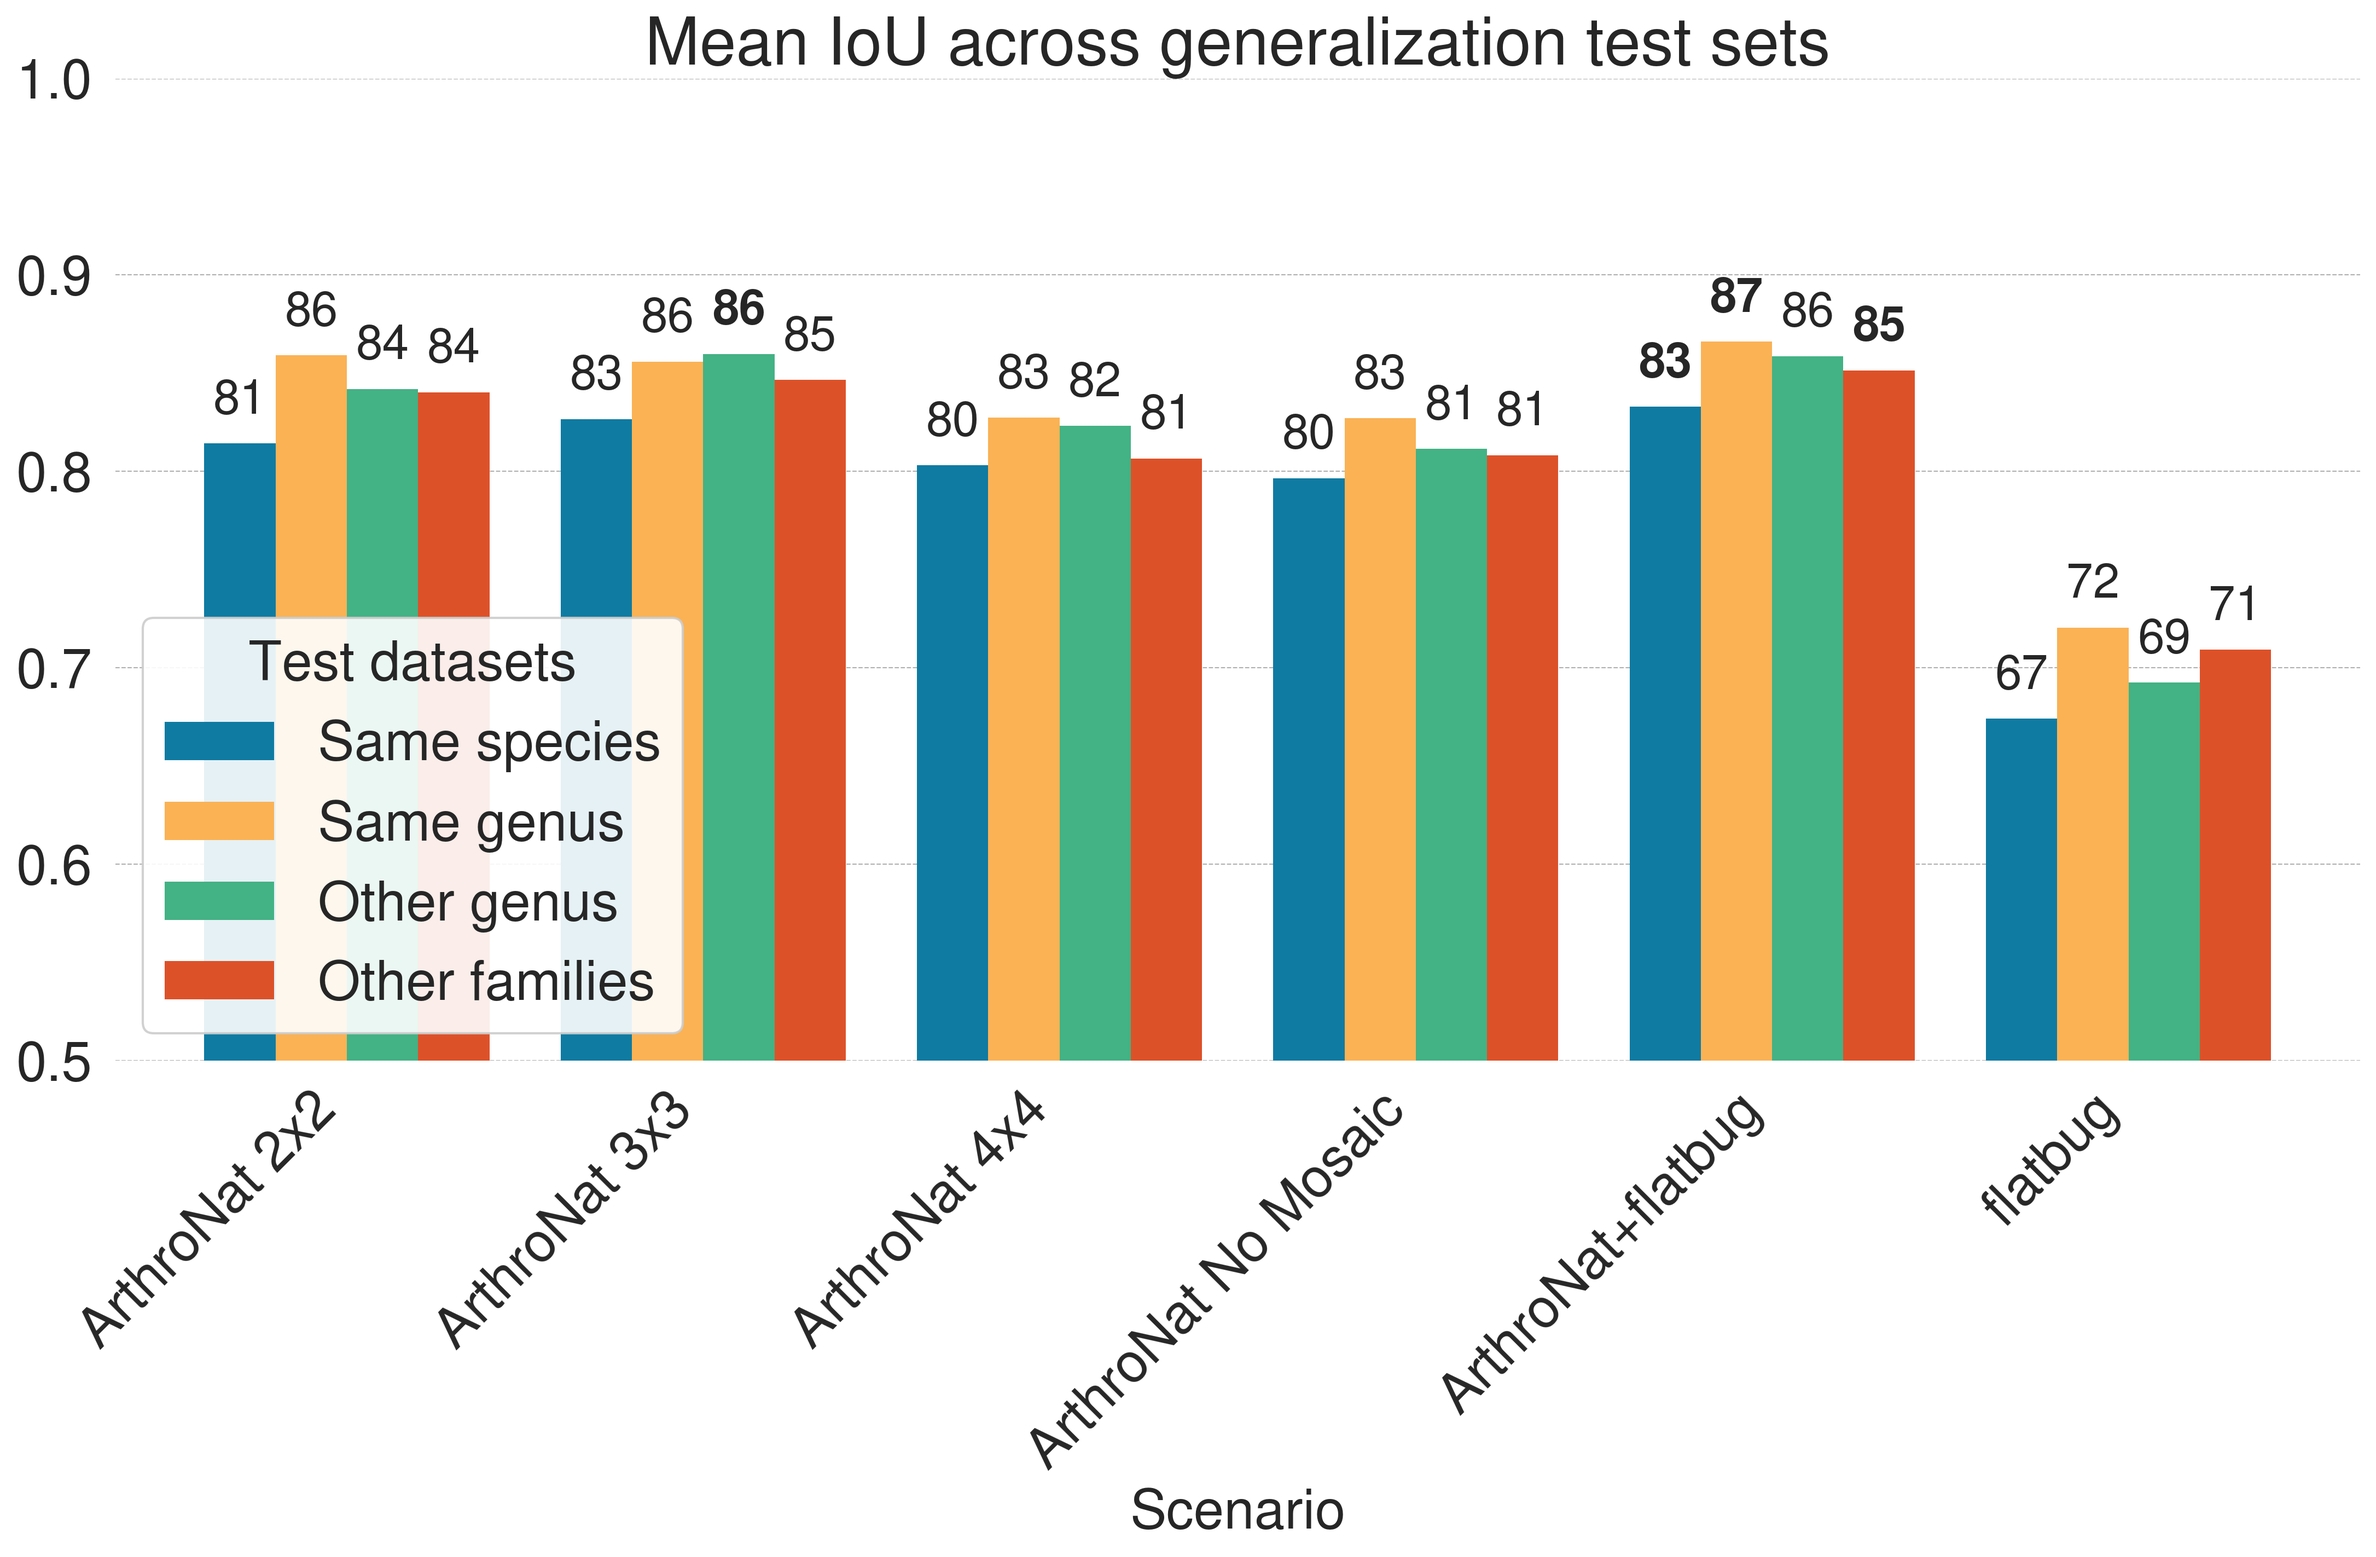
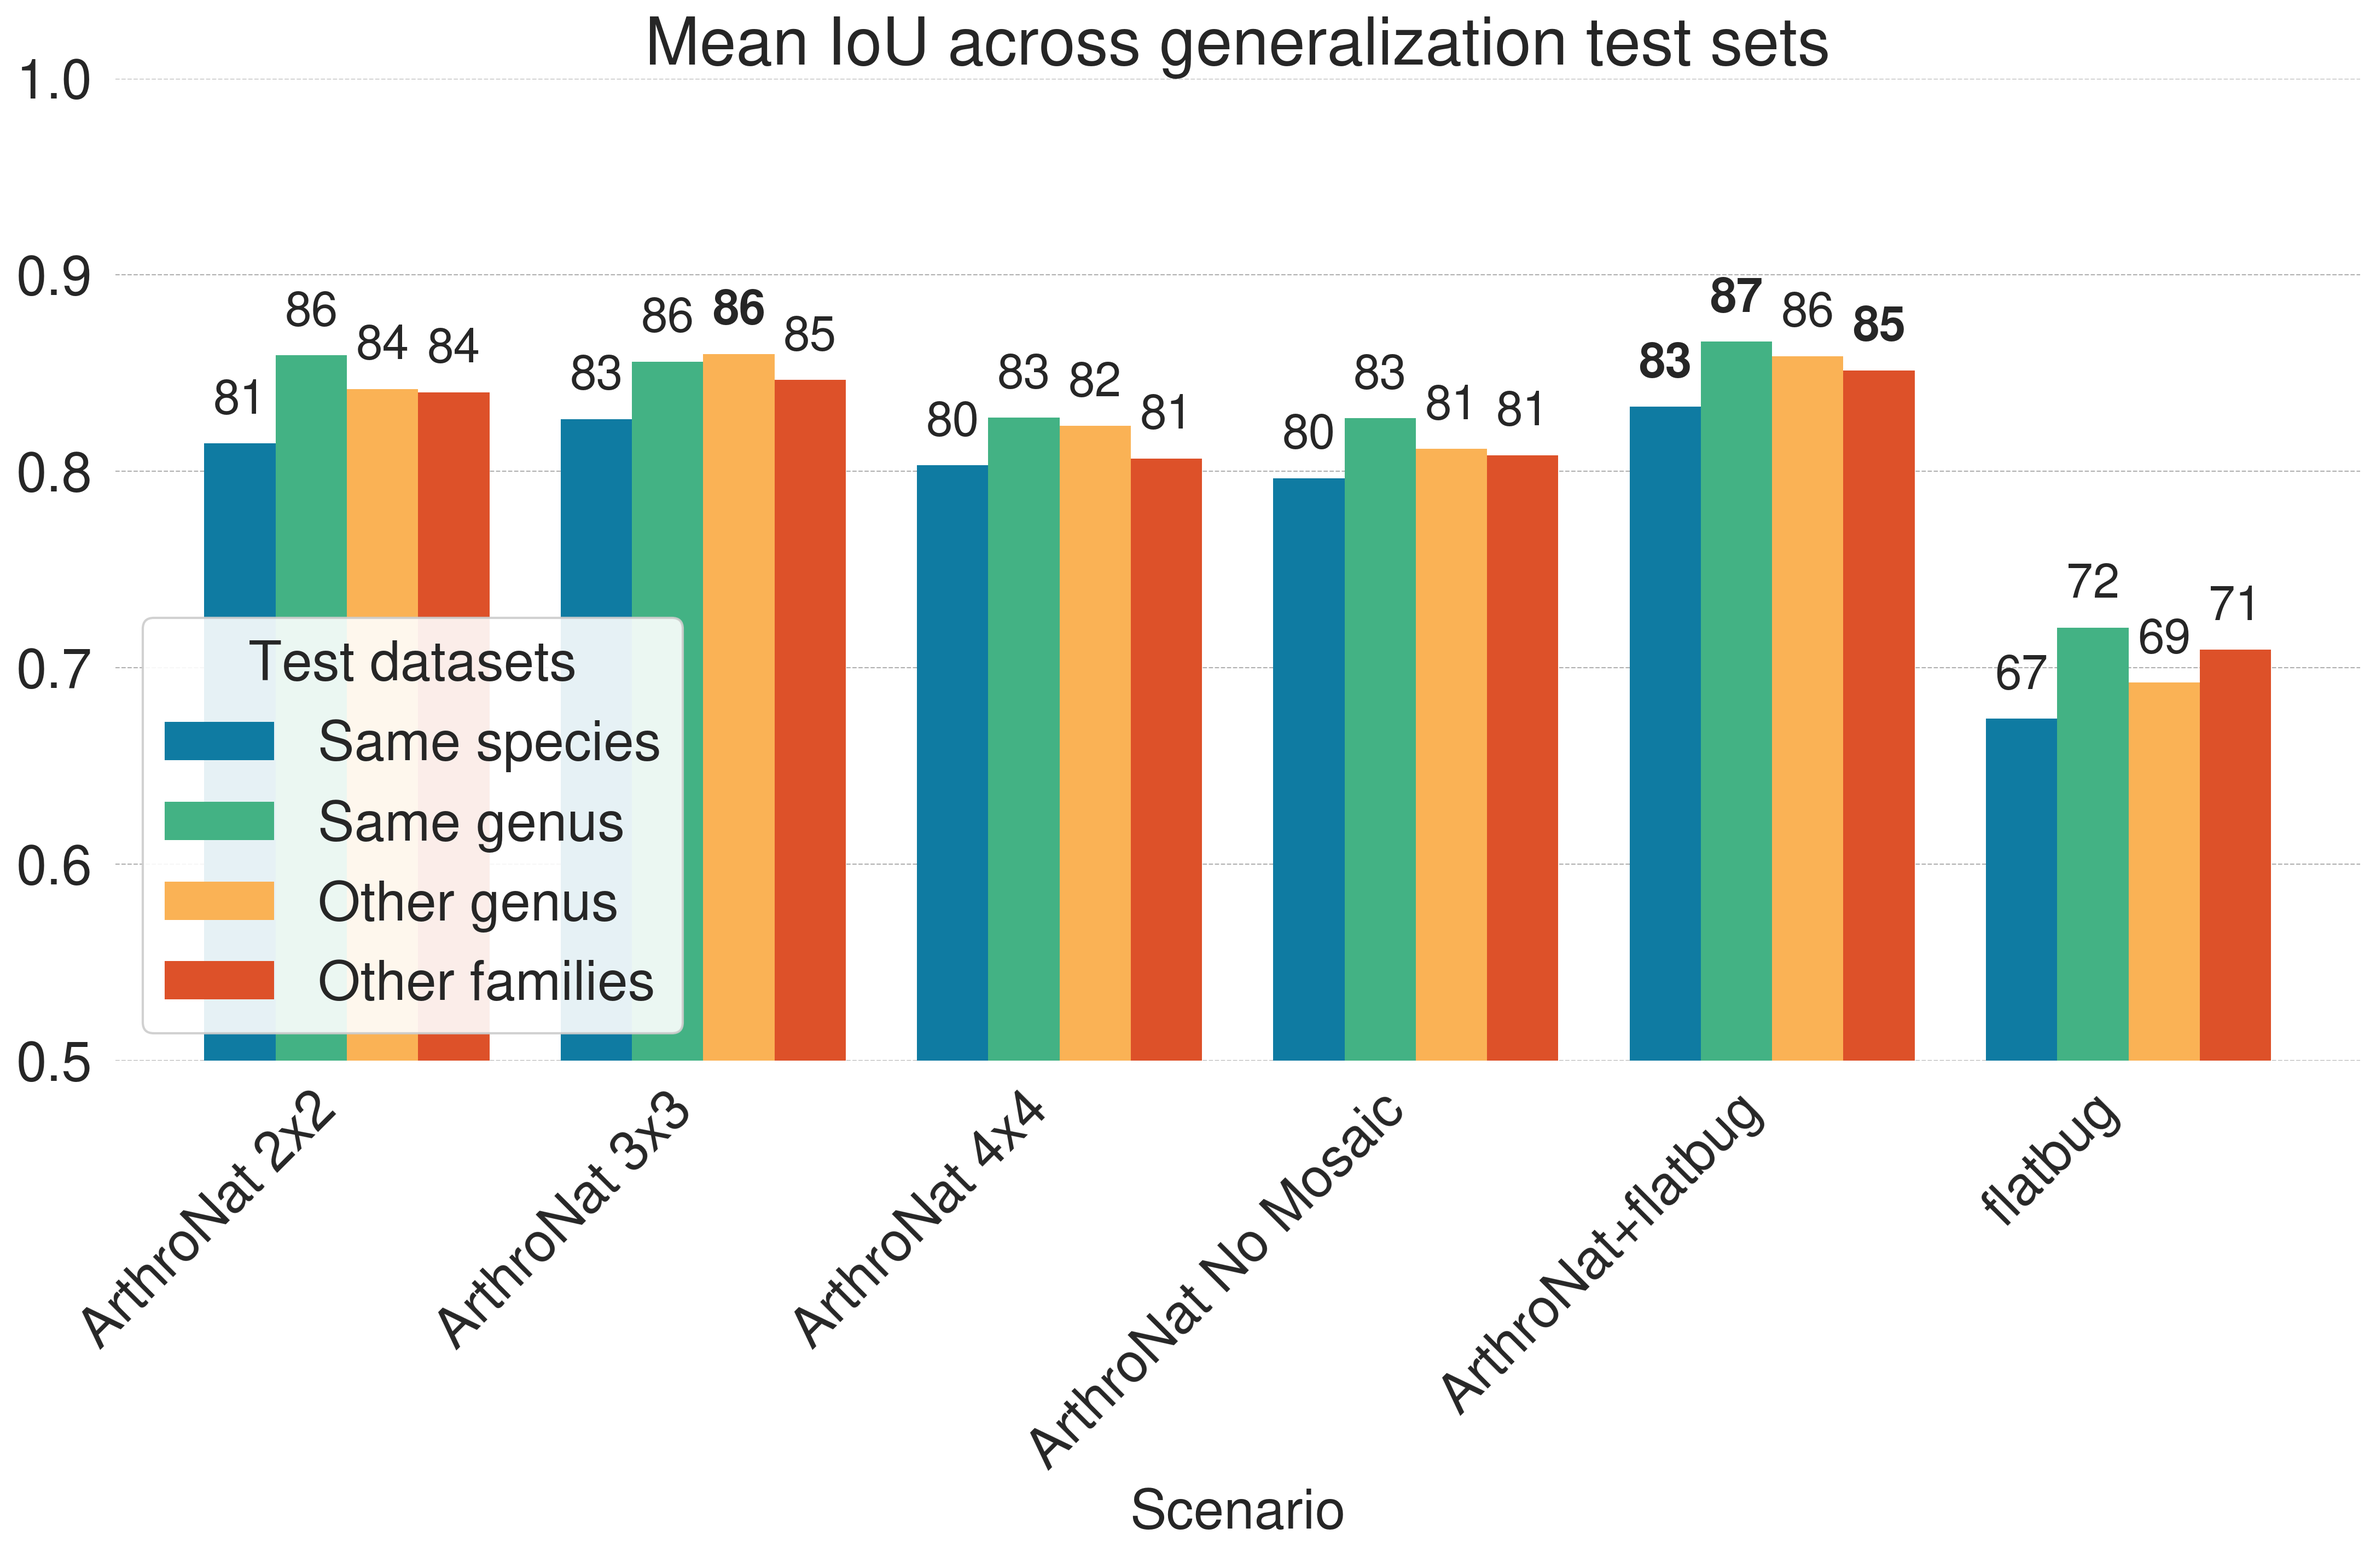
Minor tweaks in column order and color palette order

diff --git a/validation/hierarchical_metrics/compare_csvs.py b/validation/hierarchical_metrics/compare_csvs.py
@@ -210,22 +210,12 @@ def compare_multiple_levels(scenarios, csv_folder_base, levels=None, metrics=Non
 # Example usage
 scenarios = {
     'arthro': 'ArthroNat',
-    'flatbug': 'flatbug',
-    'arthro_and_flatbug': 'ArthroNat+flatbug',
     'arthro_mosaic_33': 'ArthroNat mosaic3x3',
     'arthro_mosaic_44': 'ArthroNat mosaic4x4',
     'arthro_nomosaic': 'ArthroNat no mosaic',
+    'arthro_and_flatbug': 'ArthroNat+flatbug',
+    'flatbug': 'flatbug',
 }
-
-# Alternative: simple list format (folder names = display names)
-# scenarios = [
-#     'arthro',
-#     'flatbug',
-#     'arthro_and_flatbug',
-#     'arthro_mosaic_33',
-#     'arthro_mosaic_44',
-#     'arthro_nomosaic',
-# ]
 
 # Base directory containing scenario subfolders
 csv_folder_base = 'validation/hierarchical_metrics/csv_tables'

diff --git a/validation/generalization/plot_generalization_perfs.py b/validation/generalization/plot_generalization_perfs.py
@@ -47,8 +47,8 @@ def plot_model_comparison(csv_path, metric, output, model_selection=None, figsiz
     
     # Custom color palette
     colors = load_cmap("Egypt").colors
-    # Reorder colors from r b g y to b y g r (indices 1, 3, 2, 0)
-    colors = [colors[i] for i in [1, 3, 2, 0]]
+    # Reorder colors from r b g y to b g y r (indices 1, 2, 3, 0)
+    colors = [colors[i] for i in [1, 2, 3, 0]]
     
     # Plot the bar chart
     bars = pivot_df.T.plot(kind='bar', ax=ax, width=bar_width, color=colors[:len(pivot_df.columns)])

diff --git a/validation/hierarchical_metrics/get_hierarchical_perfs_csv.py b/validation/hierarchical_metrics/get_hierarchical_perfs_csv.py
@@ -126,11 +126,11 @@ def export_all_metrics(results, output_dir, model_name='model'):
 # Example usage
 scenarios = [
     'arthro',
-    'flatbug',
-    'arthro_and_flatbug',
     'arthro_mosaic_33',
     'arthro_mosaic_44',
     'arthro_nomosaic',
+    'arthro_and_flatbug',
+    'flatbug',
 ]
 
 for model_name in scenarios:
